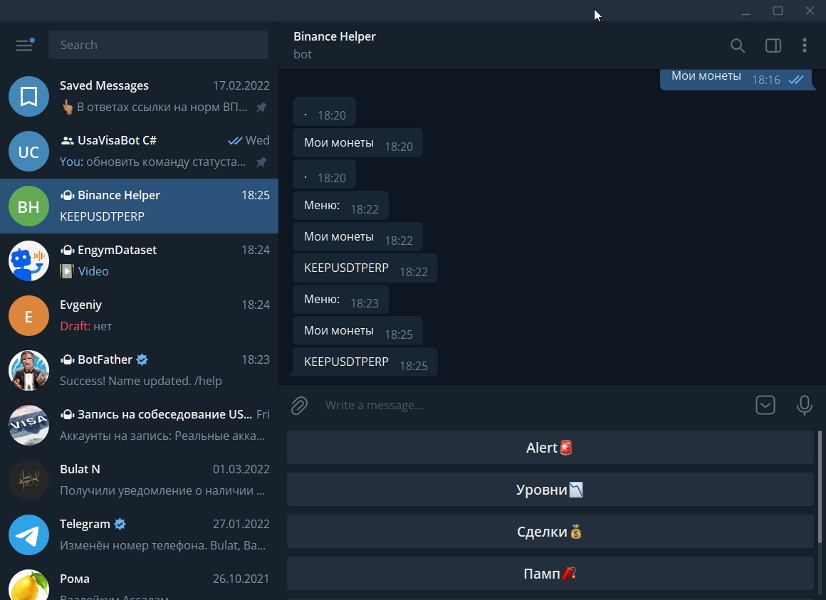
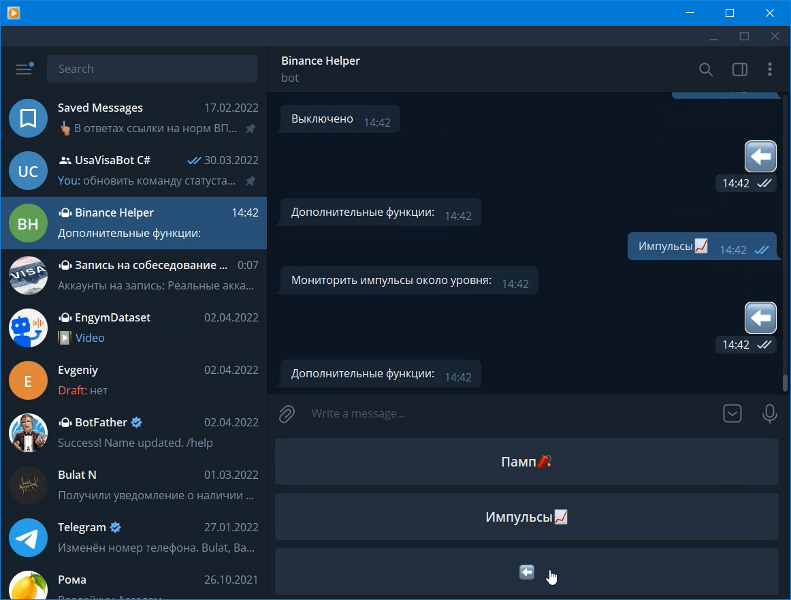
Binance Helper fixes

diff --git a/binancehelper.html b/binancehelper.html
@@ -73,13 +73,13 @@ Set the type and color theme here - the Pro version contains additional themes -
 		</div>
 		
 		<div class="small-12 medium-12 large-12 columns">
-			<p align="justify">  Бот объявляет о закрытии/открытии сделки, может ставить алерты. Можем указать уровни и бот будет информировать подход к уровню: с поджатием, импульсами и т.д. Сообщает о наличии/отсутствии импульса после пробоя, ложного пробоя или отбоя от уровня.
+			<p align="justify"> Бот отправляет уведомление при достижении монетой указанной цены (alert). Можем указать уровни и бот будет информировать подход к уровню: с поджатием, импульсами и т.д. Сообщает о наличии/отсутствии импульса после пробоя, ложного пробоя или отбоя от уровня.
 			Следит за пампами и сильными изменениями валют.</p>
 		</div>
 		
 		<div class="project-img">
-			<img src="img/projects/binancehelper/coin.png" alt="Coins" />
-			<h6>Мои монеты</h6>
+			<img src="img/projects/binancehelper/video.gif" alt="Bot" />
+			<h6>Функции бота</h6>
 			<p/>
 		</div>
 </div>
